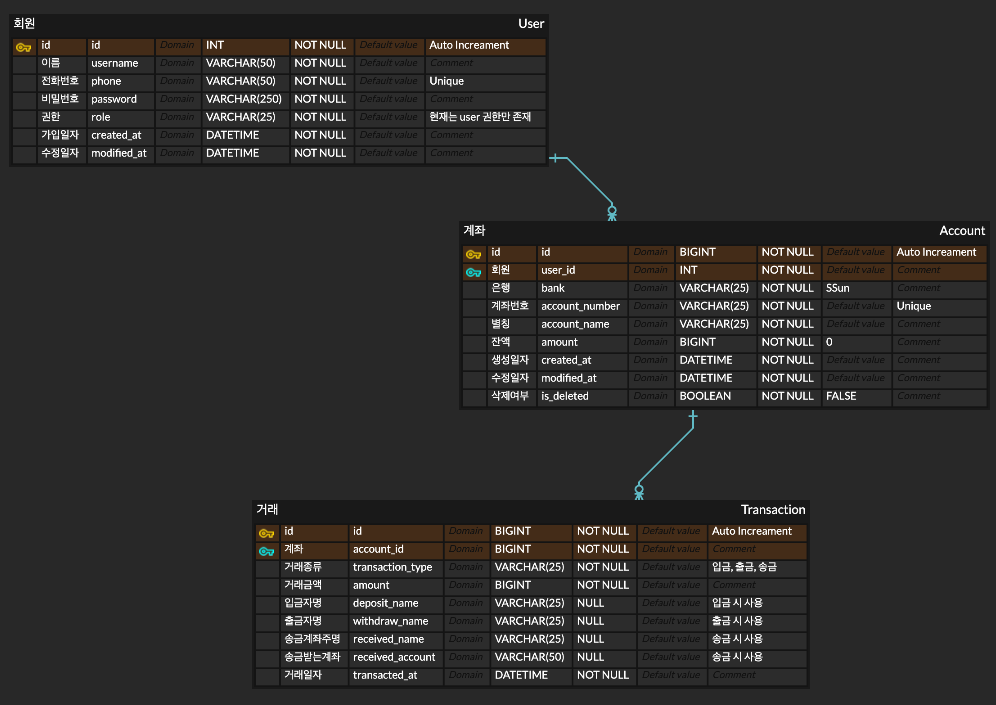
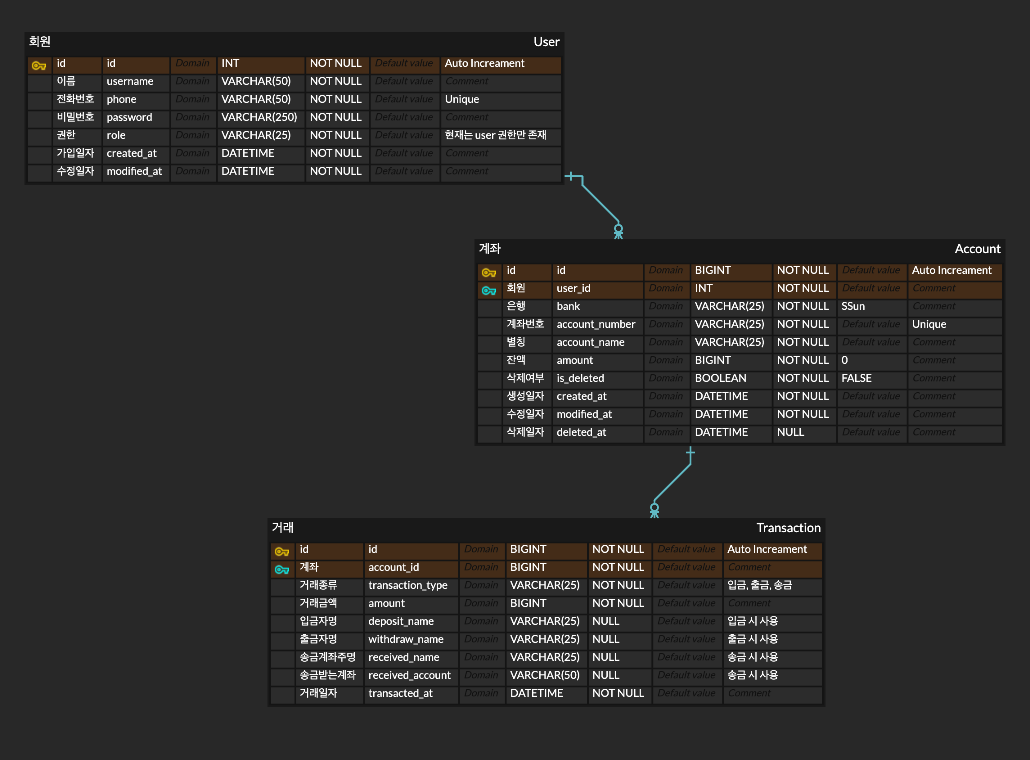
Feat: 계좌 삭제 api 완성 (#25)
* ReadMe: ERD에 계좌 삭제일자 추가

diff --git a/src/main/java/com/zerobase/BankSSun/service/AccountService.java b/src/main/java/com/zerobase/BankSSun/service/AccountService.java
@@ -1,13 +1,18 @@
 package com.zerobase.BankSSun.service;
 
+import static com.zerobase.BankSSun.type.ErrorCode.ACCOUNT_NOT_EMPTY;
+import static com.zerobase.BankSSun.type.ErrorCode.ACCOUNT_NOT_FOUND;
 import static com.zerobase.BankSSun.type.ErrorCode.TOKEN_NOT_MATCH_USER;
+import static com.zerobase.BankSSun.type.ErrorCode.USER_NOT_PERMITTED;
 
 import com.zerobase.BankSSun.domain.entity.AccountEntity;
 import com.zerobase.BankSSun.domain.repository.AccountRepository;
 import com.zerobase.BankSSun.domain.repository.UserRepository;
 import com.zerobase.BankSSun.dto.AccountCreateDto;
+import com.zerobase.BankSSun.dto.AccountDeleteRequest;
 import com.zerobase.BankSSun.exception.CustomException;
 import com.zerobase.BankSSun.security.TokenProvider;
+import java.time.LocalDateTime;
 import java.util.Objects;
 import javax.transaction.Transactional;
 import lombok.RequiredArgsConstructor;
@@ -60,5 +65,31 @@ public class AccountService {
         return accountRepository.findFirstByOrderByIdDesc()
             .map(accountEntity -> (Long.parseLong(accountEntity.getAccountNumber()) + 1) + "")
             .orElse("89300000000");
+    }
+
+    /**
+     * 계좌 삭제(논리적 삭제)_23.08.01
+     */
+    @Transactional
+    public String deleteAccount(String token, AccountDeleteRequest request) {
+        AccountEntity accountEntity = accountRepository.findById(request.getAccountId())
+            .orElseThrow(() -> new CustomException(ACCOUNT_NOT_FOUND));
+
+        // 토큰의 사용자 id와 삭제를 요청한 계좌의 userId 비교
+        Long tokenUserId = tokenProvider.getId(token);
+        if (!Objects.equals(tokenUserId, accountEntity.getUserId())) {
+            throw new CustomException(USER_NOT_PERMITTED);
+        }
+
+        // 계좌의 잔액이 0원인지 확인, 0원이 아니면 예외발생
+        if (accountEntity.getAmount() != 0) {
+            throw new CustomException(ACCOUNT_NOT_EMPTY);
+        }
+
+        // 계좌 삭제(물리적 삭제가 아닌 삭제 상태로 변경)
+        accountEntity.setIsDeleted(true);
+        accountEntity.setDeletedAt(LocalDateTime.now());
+
+        return accountEntity.getAccountNumber() + " 계좌가 삭제되었습니다.";
     }
 }

diff --git a/src/main/java/com/zerobase/BankSSun/web/AccountController.java b/src/main/java/com/zerobase/BankSSun/web/AccountController.java
@@ -4,10 +4,12 @@ import static com.zerobase.BankSSun.security.JwtAuthenticationFilter.TOKEN_PREFI
 
 import com.zerobase.BankSSun.domain.entity.AccountEntity;
 import com.zerobase.BankSSun.dto.AccountCreateDto;
+import com.zerobase.BankSSun.dto.AccountDeleteRequest;
 import com.zerobase.BankSSun.service.AccountService;
 import javax.validation.Valid;
 import lombok.RequiredArgsConstructor;
 import org.springframework.http.ResponseEntity;
+import org.springframework.web.bind.annotation.DeleteMapping;
 import org.springframework.web.bind.annotation.PostMapping;
 import org.springframework.web.bind.annotation.RequestBody;
 import org.springframework.web.bind.annotation.RequestHeader;
@@ -27,7 +29,8 @@ public class AccountController {
         @RequestHeader(name = "Authorization") String token,
         @RequestBody @Valid AccountCreateDto.Request request
     ) {
-        AccountEntity accountEntity = accountService.createAccount(token.substring(TOKEN_PREFIX.length()), request);
+        AccountEntity accountEntity = accountService.createAccount(
+            token.substring(TOKEN_PREFIX.length()), request);
         return ResponseEntity.ok(
             AccountCreateDto.Response.builder()
                 .userId(accountEntity.getUserId())
@@ -35,6 +38,20 @@ public class AccountController {
                 .amount(accountEntity.getAmount())
                 .createdAt(accountEntity.getCreatedAt())
                 .build()
+        );
+    }
+
+    /**
+     * 계좌 삭제(논리적 삭제)_23.08.01
+     */
+    @DeleteMapping("/account")
+    public ResponseEntity<String> deleteAccount(
+        @RequestHeader(name = "Authorization") String token,
+        @RequestBody AccountDeleteRequest request
+    ) {
+        return ResponseEntity.ok(
+            accountService.deleteAccount(
+                token.substring(TOKEN_PREFIX.length()), request)
         );
     }
 }

diff --git a/src/main/java/com/zerobase/BankSSun/type/ErrorCode.java b/src/main/java/com/zerobase/BankSSun/type/ErrorCode.java
@@ -13,7 +13,10 @@ public enum ErrorCode {
     USER_NOT_PERMITTED("사용자 권한이 없습니다."),
 
     TOKEN_EXPIRED("유효기간이 만료된 토큰입니다. 다시 로그인해주세요."),
-    TOKEN_NOT_MATCH_USER("요청하신 사용자와 Token 인증 사용자가 일치하지 않습니다.");
+    TOKEN_NOT_MATCH_USER("요청하신 사용자와 Token 인증 사용자가 일치하지 않습니다."),
+
+    ACCOUNT_NOT_FOUND("계좌를 찾을 수 없습니다."),
+    ACCOUNT_NOT_EMPTY("계좌에 잔액이 남아있습니다.");
 
     private final String description;
 }

diff --git a/src/main/java/com/zerobase/BankSSun/domain/entity/AccountEntity.java b/src/main/java/com/zerobase/BankSSun/domain/entity/AccountEntity.java
@@ -11,10 +11,12 @@ import lombok.AllArgsConstructor;
 import lombok.Builder;
 import lombok.Getter;
 import lombok.RequiredArgsConstructor;
+import lombok.Setter;
 import org.hibernate.envers.AuditOverride;
 
 @Builder
 @Getter
+@Setter
 @RequiredArgsConstructor
 @AllArgsConstructor // => 필요한 것 맞는가..!
 //@NoArgsConstructor

diff --git a/src/main/java/com/zerobase/BankSSun/dto/AccountDeleteRequest.java b/src/main/java/com/zerobase/BankSSun/dto/AccountDeleteRequest.java
@@ -1,0 +1,9 @@
+package com.zerobase.BankSSun.dto;
+
+import lombok.Getter;
+
+@Getter
+public class AccountDeleteRequest {
+
+    private Long accountId;
+}
